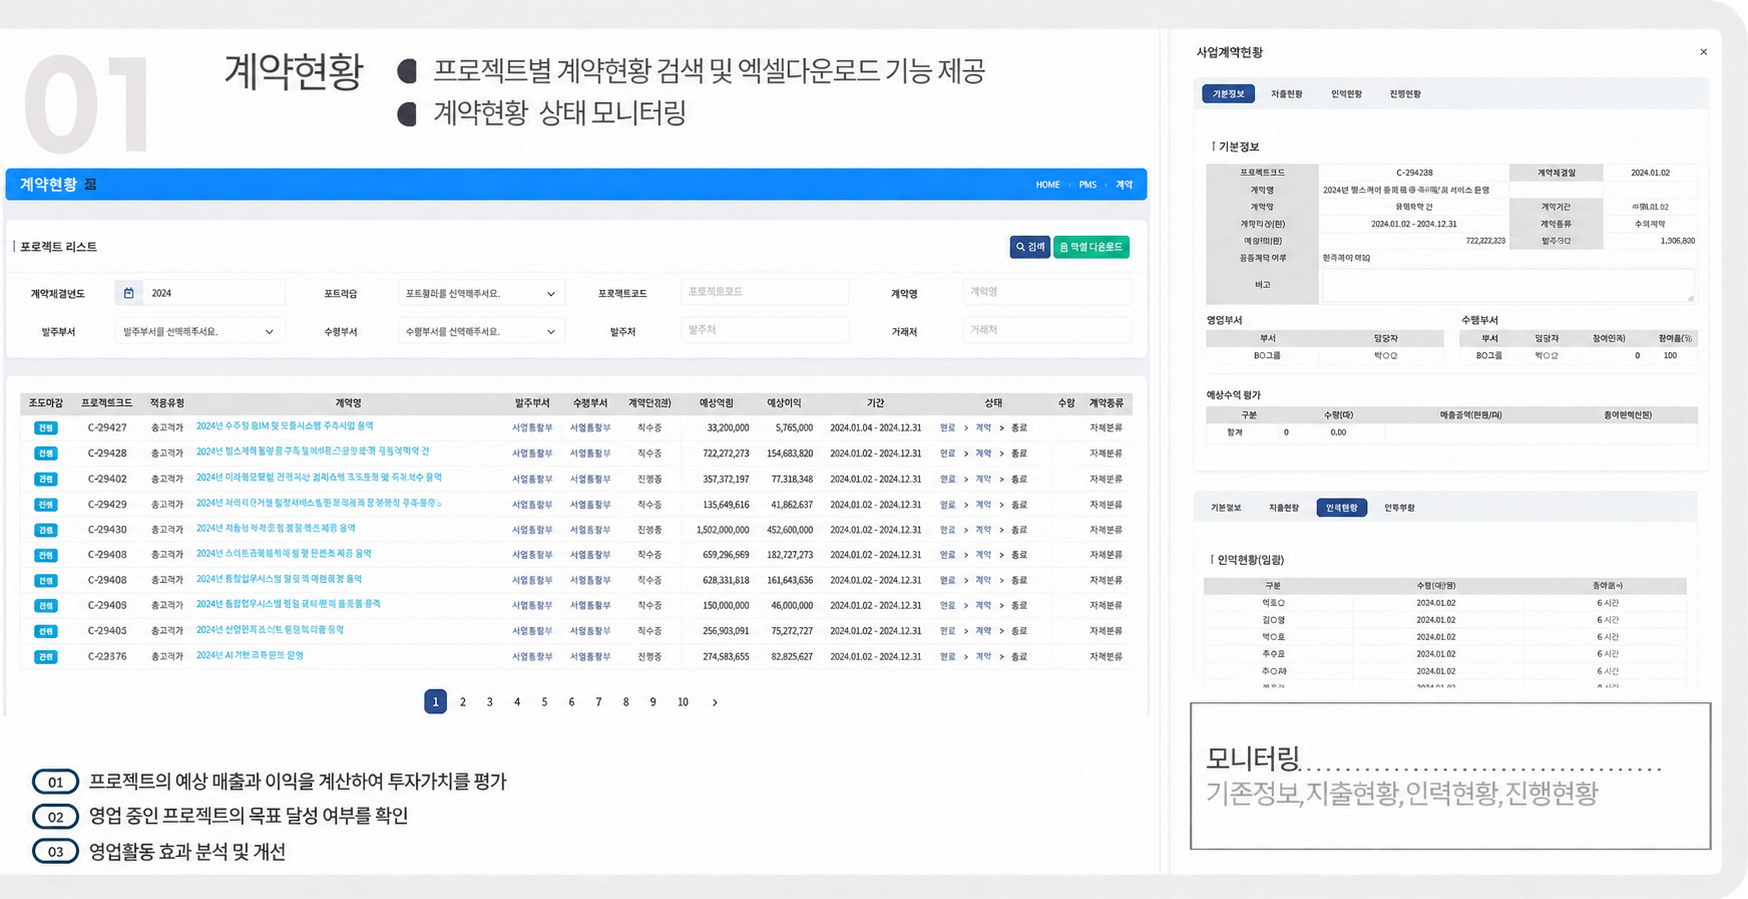
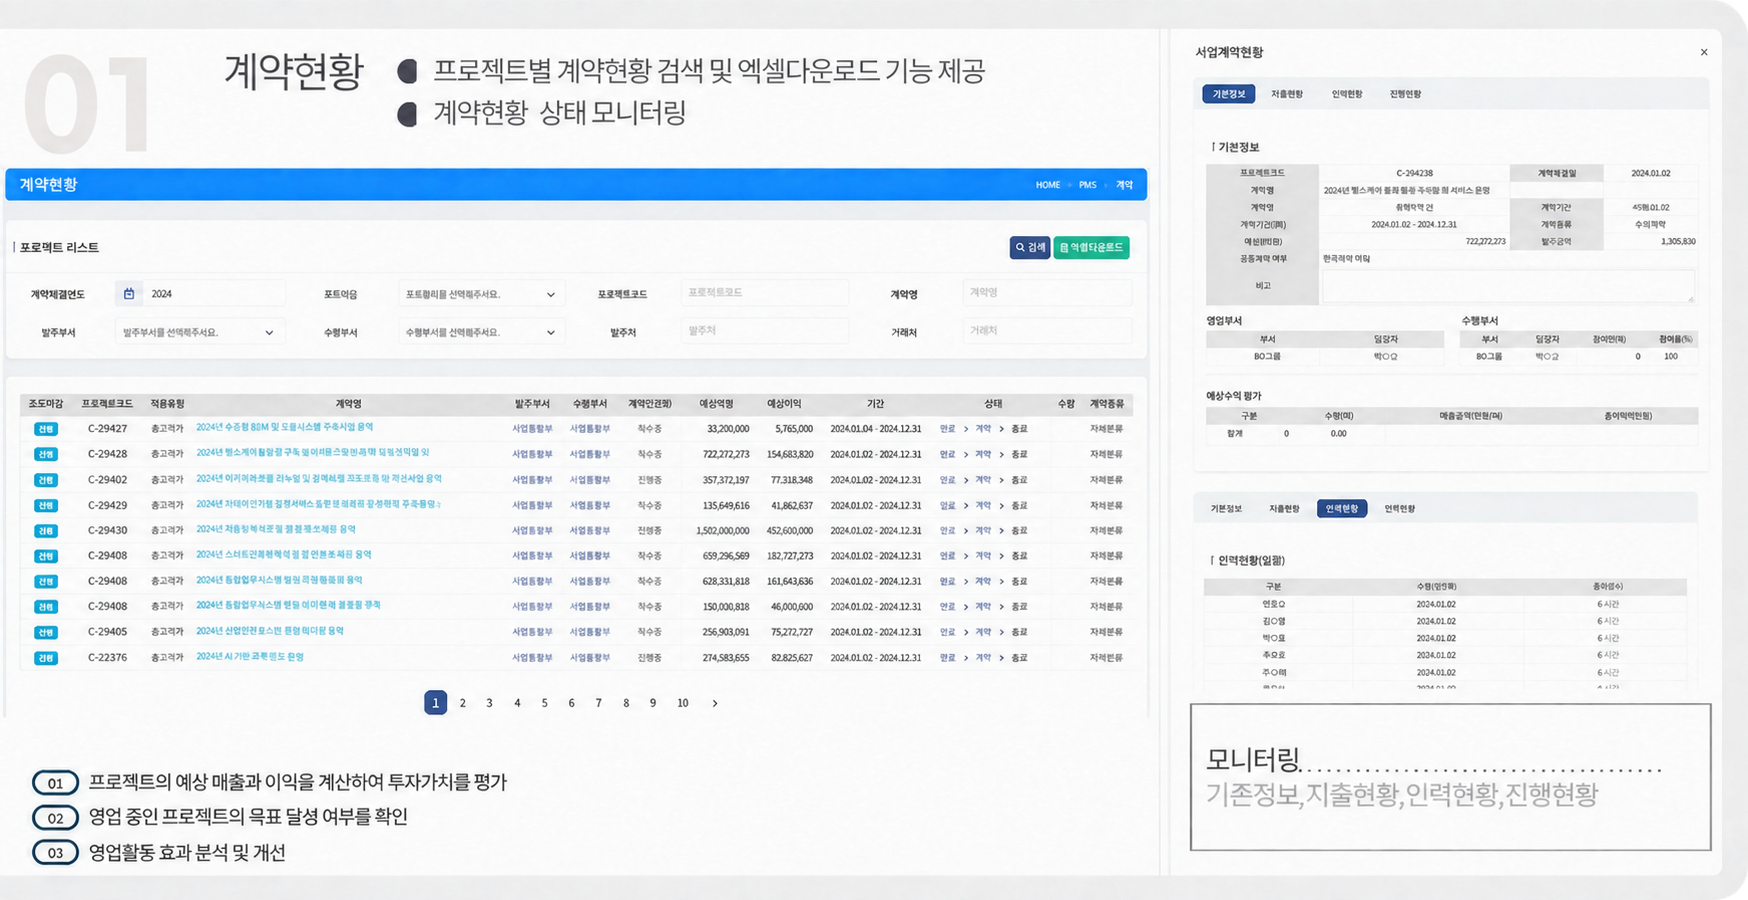
Correct PMS and calendar image labels and remove title glyph

diff --git a/subpages/product/wehago/cooperation.html b/subpages/product/wehago/cooperation.html
@@ -395,7 +395,7 @@
                 </li>
                 <li>
                     <div class="inner sb-design-row sb-centered-feature sb-zigzag-feature" data-layout="visual-right" data-screen-layout="visual-right">
-                        <div class="img sb-feature-visual"><div class="sb-generated-panel"><figure class="sb-unframed-screen" data-screen-presentation="unframed" style="--sb-screen-ratio:1.467633;--sb-preview-ratio:1.468599;--sb-preview-height:516px;--sb-preview-padding:0px" data-screen-content="complete" data-original-screen="assets/subpages/regenerated/ui-058.png"><a class="sb-screen-zoom" href="../../../assets/subpages/flat-screens/ui-058-full.png" aria-label="일정관리 서비스 화면 크게 보기"><img class="sb-flat-screen" loading="lazy" src="../../../assets/subpages/flat-screens/ui-058-full.png" alt="일정관리 서비스 화면" width="1519" height="1035"></a></figure></div></div>
+                        <div class="img sb-feature-visual"><div class="sb-generated-panel"><figure class="sb-unframed-screen" data-screen-presentation="unframed" style="--sb-screen-ratio:1.465251;--sb-preview-ratio:1.465251;--sb-preview-height:516px;--sb-preview-padding:0px;--sb-native-width:1519px" data-screen-content="complete" data-original-screen="assets/subpages/flat-screens/ui-058-full.png" data-quality-screen="reviewed-ai" data-ai-review="user-accepted-known-differences"><a class="sb-screen-zoom" href="../../../assets/subpages/reviewed-ai-20261023/calendar-corrected.png?v=20261023-calendar-text-fix-1" aria-label="일정관리 서비스 화면 크게 보기"><img class="sb-flat-screen" loading="lazy" src="../../../assets/subpages/reviewed-ai-20261023/calendar-corrected.png?v=20261023-calendar-text-fix-1" alt="일정관리 서비스 화면" width="1518" height="1036"></a></figure></div></div>
                         <div class="txt sb-feature-copy">
                             <strong>일정관리</strong>
                             <b>

diff --git a/subpages/product/pms.html b/subpages/product/pms.html
@@ -121,7 +121,7 @@
                         </p>
 
                     </div>
-                    <div class="img sb-feature-visual"><figure class="sb-unframed-screen" data-screen-presentation="unframed" style="--sb-screen-ratio:1.944383;--sb-preview-ratio:1.944383;--sb-preview-height:516px;--sb-preview-padding:0px;--sb-native-width:960px" data-quality-screen="reviewed-ai" data-original-screen="assets/subpages/verified-screens-20261023/pms-contracts.png" data-ai-review="user-accepted-known-differences"><a class="sb-screen-zoom" href="../../assets/subpages/reviewed-ai-20261023/pms-contracts.png?v=20261023-reviewed-ai-2" aria-label="더존 PMS 계약현황 화면 크게 보기"><img class="sb-flat-screen" loading="lazy" src="../../assets/subpages/reviewed-ai-20261023/pms-contracts.png?v=20261023-reviewed-ai-2" alt="더존 PMS 계약현황 화면" width="1748" height="899"></a></figure></div>
+                    <div class="img sb-feature-visual"><figure class="sb-unframed-screen" data-screen-presentation="unframed" style="--sb-screen-ratio:1.942222;--sb-preview-ratio:1.942222;--sb-preview-height:516px;--sb-preview-padding:0px;--sb-native-width:960px" data-quality-screen="reviewed-ai" data-original-screen="assets/subpages/verified-screens-20261023/pms-contracts.png" data-ai-review="user-accepted-known-differences"><a class="sb-screen-zoom" href="../../assets/subpages/reviewed-ai-20261023/pms-contracts.png?v=20261023-pms-text-fix-1" aria-label="더존 PMS 계약현황 화면 크게 보기"><img class="sb-flat-screen" loading="lazy" src="../../assets/subpages/reviewed-ai-20261023/pms-contracts.png?v=20261023-pms-text-fix-1" alt="더존 PMS 계약현황 화면" width="1748" height="900"></a></figure></div>
                 </div>
             </div>
 
